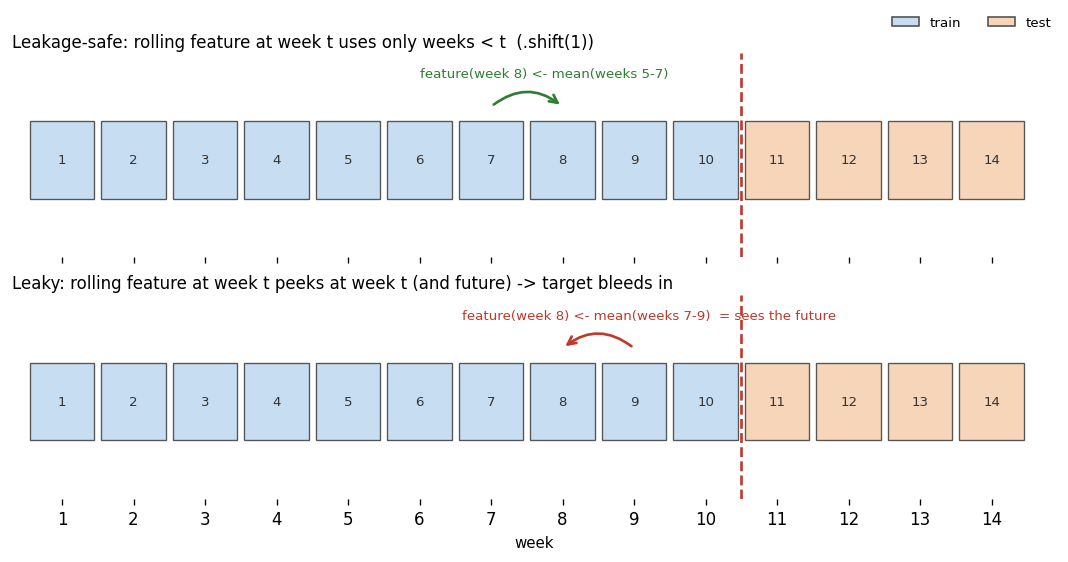
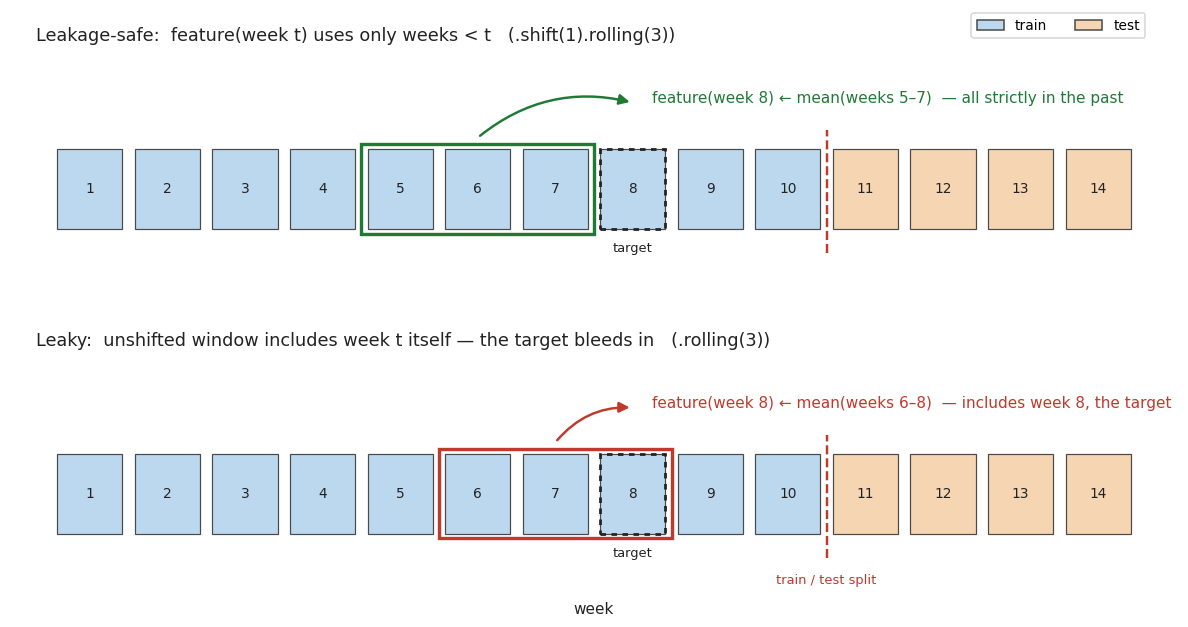
fix: correct leakage-timeline figure mechanism (window includes target, not future); drop unbacked AUC cross-reference

diff --git a/docs/10-model-evaluation/leakage-patterns.md b/docs/10-model-evaluation/leakage-patterns.md
@@ -29,13 +29,15 @@ df["roll_mean_7"] = df["demand"].rolling(7).mean()
 df["roll_mean_7"] = df["demand"].shift(1).rolling(7).mean()
 ```
 
-![Leakage-safe vs leaky rolling features over a train/test timeline](img/leakage-timeline.png)
+![Leakage-safe vs leaky rolling windows: the safe feature at week 8 uses weeks 5–7; the leaky
+unshifted window covers weeks 6–8 and includes week 8 itself, the target](img/leakage-timeline.png)
 
-The top track is safe: the feature at week 8 is built from weeks 5–7, all strictly in its past.
-The bottom track leaks: a centered/unshifted window at week 8 pulls in weeks 7–9, so it "sees" week
-9 — future information relative to the prediction. Train a model on the leaky features and the test
-score looks fantastic; deploy it and the future columns are `NaN`, because the future hasn't
-happened yet.
+The top track is safe: the feature at week 8 is built from weeks 5–7 (a 3-week window in the
+figure for legibility), all strictly in its past. The bottom track leaks: the unshifted window at
+week 8 covers weeks 6–8 — it includes week 8 itself, the very value the model is being trained to
+predict. Train on that and the test score looks fantastic; in production, week *t*'s demand doesn't
+exist yet when you're forecasting week *t*, so the feature either can't be computed at all or gets
+silently filled with something stale — and the score collapses.
 
 This is documented in depth in
 [Time Series → Feature Engineering](../09-time-series-forecasting/ml/feature-engineering.md#avoiding-data-leakage).

diff --git a/docs/10-model-evaluation/roc-auc.md b/docs/10-model-evaluation/roc-auc.md
@@ -49,9 +49,8 @@ AUC is the better model-comparison metric.
 
 > **A caveat on near-perfect AUC.** An AUC this high partly reflects an easy problem: "top-quartile
 > weight" is nearly a deterministic function of the size features the model gets to see, so the
-> classes are almost linearly separable. On messier real problems (my
-> [demand-forecasting](../09-time-series-forecasting/index.md) classifications of demand *patterns*,
-> for instance) AUC lands far lower, and the shape of the curve — not just the area — is where the
+> classes are almost linearly separable. On messier real problems the signal is nowhere near that
+> clean — AUC lands far lower, and the shape of the curve — not just the area — is where the
 > tradeoffs live.
 
 ## Reading the curve, not just the number